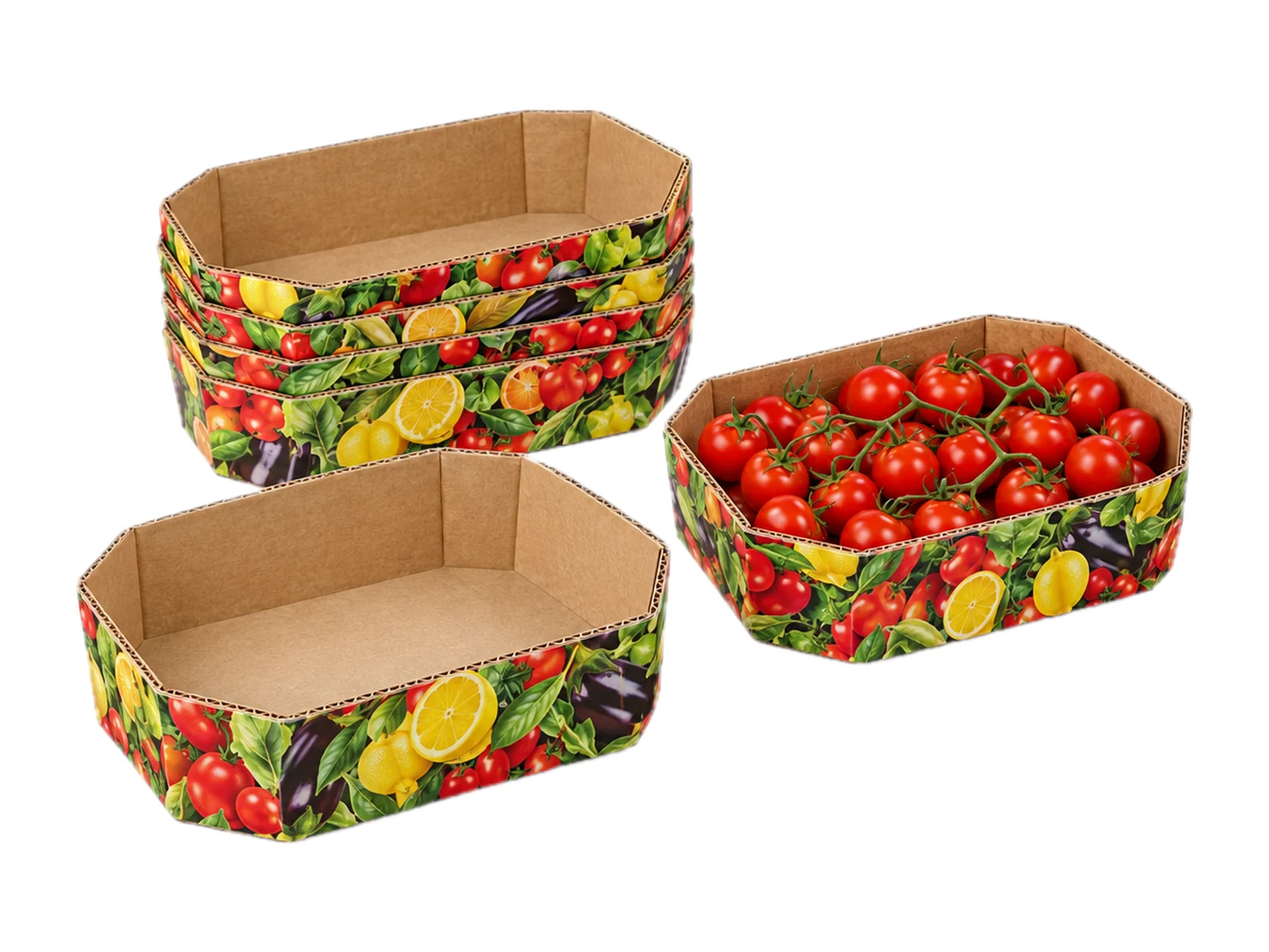
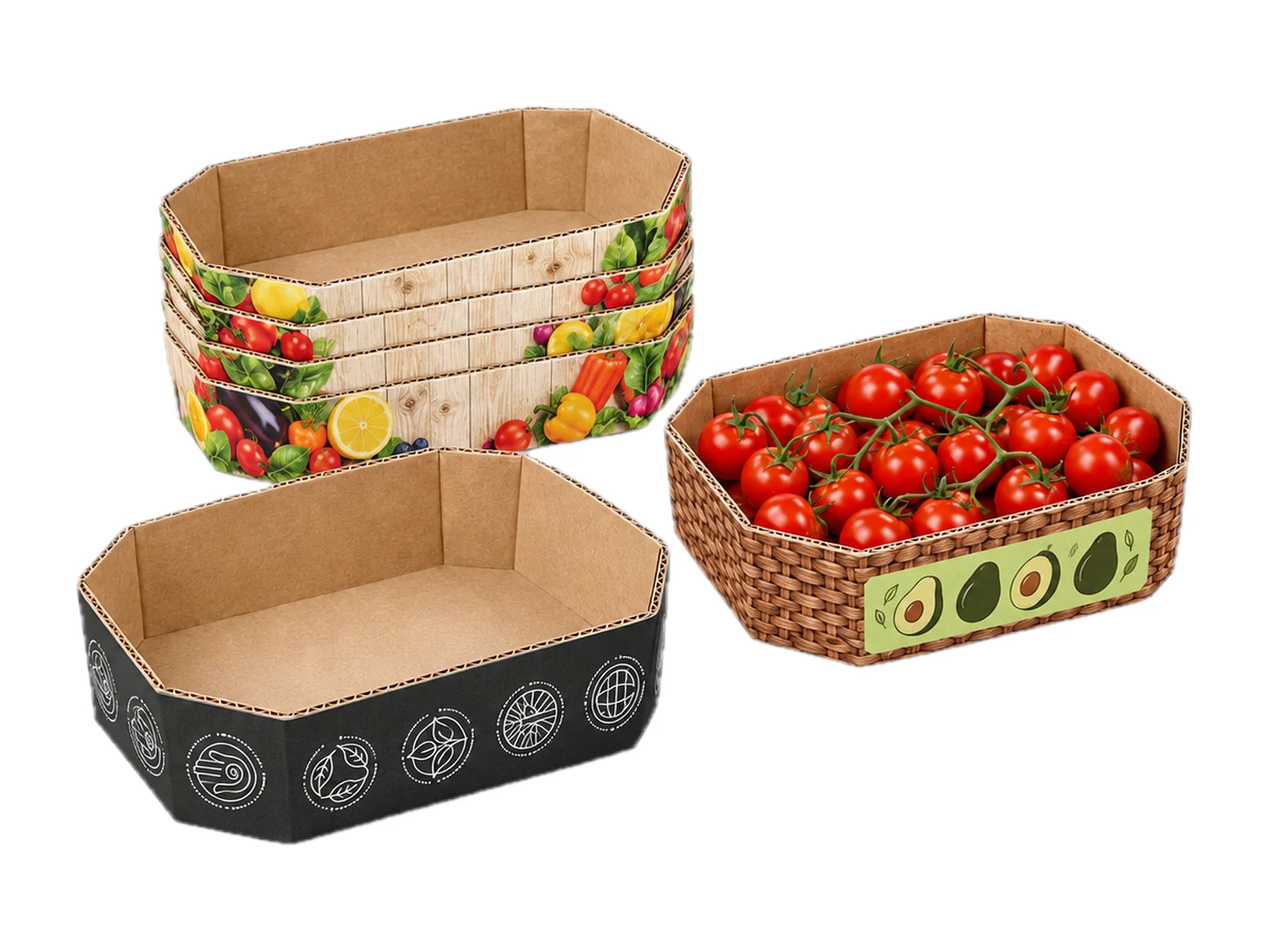
Chili Pack: три дизайна лотков на фото

diff --git a/chilipack/index.html b/chilipack/index.html
@@ -1,4 +1,4 @@
-<!DOCTYPE html><html lang="ru"><head><meta charset="utf-8"><meta name="viewport" content="width=device-width, initial-scale=1"><title>Лотки Chili Pack® для овощей, фруктов и ягод из микрогофрокартона | Финнвакум</title><meta name="description" content="Картонные лотки Chili Pack® для овощей, фруктов, ягод и зелени: разные размеры, печать под ваш бренд, перерабатываемый картон. Работаем по всей России и с ближним зарубежьем."><meta name="robots" content="noindex, nofollow"><meta property="og:type" content="website"><meta property="og:locale" content="ru_RU"><meta property="og:title" content="Лотки Chili Pack® для овощей, фруктов и ягод из микрогофрокартона | Финнвакум"><meta property="og:description" content="Картонные лотки Chili Pack® для овощей, фруктов, ягод и зелени: разные размеры, печать под ваш бренд, перерабатываемый картон. Работаем по всей России и с ближним зарубежьем."><meta property="og:url" content="https://finnvacum.ru/chilipack/"><meta property="og:image" content="https://finnvacum.ru/media/video/produce.jpg"><meta name="theme-color" content="#0a1b3d"><link rel="icon" href="/favicon.svg" type="image/svg+xml"><link rel="alternate icon" href="/favicon.ico" sizes="32x32"><link rel="apple-touch-icon" href="/apple-touch-icon.png"><script type="application/ld+json">{"@context":"https://schema.org","@type":"Organization","name":"ООО «Финнвакум»","url":"https://finnvacum.ru/","logo":"https://finnvacum.ru/media/brand/finnvacum-navy.svg","foundingDate":"1997","email":"info@finnvacum.ru","telephone":"+7 (495) 673-68-69","address":{"@type":"PostalAddress","streetAddress":"ул. 1-я Фрезерная, д. 2/1, стр. 1","postalCode":"109202","addressLocality":"Москва","addressCountry":"RU"}}</script><script>document.documentElement.classList.add('js');</script><script type="application/ld+json">[{"@context":"https://schema.org","@type":"BreadcrumbList","itemListElement":[{"@type":"ListItem","position":1,"name":"Главная","item":"https://finnvacum.ru/"},{"@type":"ListItem","position":2,"name":"Продукция","item":"https://finnvacum.ru/produkciya/"},{"@type":"ListItem","position":3,"name":"Лотки Chili Pack®","item":"https://finnvacum.ru/chilipack/"}]},{"@context":"https://schema.org","@type":"FAQPage","mainEntity":[{"@type":"Question","name":"Можно ли сделать лоток с нашим дизайном?","acceptedAnswer":{"@type":"Answer","text":"Да, печатаем по вашему макету и поможем с подготовкой дизайна."}},{"@type":"Question","name":"Есть ли нестандартные размеры?","acceptedAnswer":{"@type":"Answer","text":"Да, изготовим лотки под ваш продукт и фасовку."}},{"@type":"Question","name":"Чем закрыть лоток?","acceptedAnswer":{"@type":"Answer","text":"Подойдёт плёнка БОПП с перфорацией или стрейч-плёнка ПВХ — продукт «дышит» и дольше остаётся свежим."}}]}]</script><link rel="stylesheet" href="/_astro/blocks.BnBQyDFT.css"><link rel="stylesheet" href="/_astro/Rings.BG2FAgOI.css"><link rel="stylesheet" href="/_astro/LeadForm.gtYtKrME.css"><link rel="stylesheet" href="/_astro/PrintBand.DxBBeWrs.css"></head><body><header class="hdr" data-header data-astro-cid-nen7h5rs><div class="wrap hdr__in" data-astro-cid-nen7h5rs><a href="/" class="hdr__logo" aria-label="Финнвакум — на главную" data-astro-cid-nen7h5rs><img src="/media/brand/finnvacum-white.svg" alt="Finnvacum" width="118" height="52" data-astro-cid-nen7h5rs></a><nav class="hdr__nav" aria-label="Основное меню" data-astro-cid-nen7h5rs><a href="/" data-astro-cid-nen7h5rs>Главная</a><a href="/produkciya/" data-astro-cid-nen7h5rs>Продукция</a><a href="/#tehnologii" data-astro-cid-nen7h5rs>Технологии</a><a href="/poligraficheskie-uslugi/" data-astro-cid-nen7h5rs>Печать</a><a href="/about/" data-astro-cid-nen7h5rs>О компании</a><a href="/contacts/" data-astro-cid-nen7h5rs>Контакты</a><a class="hdr__partner" href="/chisteh/" title="ЧИСТЕХ — технология партнёра" aria-label="ЧИСТЕХ — технология партнёра" data-astro-cid-nen7h5rs><img src="/media/brand/chisteh_horiz_white.svg" alt="ЧИСТЕХ" width="74" height="16" data-astro-cid-nen7h5rs></a></nav><div class="hdr__right" data-astro-cid-nen7h5rs><a class="hdr__phone" href="tel:+74956736869" data-astro-cid-nen7h5rs>+7 (495) 673-68-69</a><a class="btn hdr__cta" href="#zayavka" data-astro-cid-nen7h5rs>Получить КП</a><button class="hdr__burger" type="button" aria-expanded="false" aria-controls="mnav" data-burger data-astro-cid-nen7h5rs><span data-astro-cid-nen7h5rs></span><span data-astro-cid-nen7h5rs></span><span class="sr-only" data-astro-cid-nen7h5rs>Меню</span></button></div></div><div class="mnav" id="mnav" hidden data-astro-cid-nen7h5rs><nav class="wrap" aria-label="Мобильное меню" data-astro-cid-nen7h5rs><a href="/" data-astro-cid-nen7h5rs>Главная</a><a href="/produkciya/" data-astro-cid-nen7h5rs>Продукция</a><a href="/#tehnologii" data-astro-cid-nen7h5rs>Технологии</a><a href="/poligraficheskie-uslugi/" data-astro-cid-nen7h5rs>Печать</a><a href="/about/" data-astro-cid-nen7h5rs>О компании</a><a href="/contacts/" data-astro-cid-nen7h5rs>Контакты</a><a class="mnav__partner" href="/chisteh/" data-astro-cid-nen7h5rs><img src="/media/brand/chisteh_horiz_white.svg" alt="ЧИСТЕХ" width="92" height="20" data-astro-cid-nen7h5rs></a><a class="mnav__phone" href="tel:+74956736869" data-astro-cid-nen7h5rs>+7 (495) 673-68-69</a><a class="btn" href="#zayavka" data-astro-cid-nen7h5rs>Получить КП</a></nav></div></header><main><section class="phero dark "><svg class="phero__rings" viewBox="0 0 300 300" aria-hidden="true" focusable="false"><circle cx="150" cy="150" r="140" fill="none" stroke="#123067" stroke-width="12"></circle><circle cx="150" cy="150" r="140" fill="none" stroke="#1FAEE0" stroke-width="12" stroke-dasharray="220 660" stroke-linecap="round" transform="rotate(10 150 150)"></circle><circle cx="150" cy="150" r="108" fill="none" stroke="#0E2354" stroke-width="8"></circle><circle cx="150" cy="150" r="108" fill="none" stroke="#5CC6E8" stroke-width="8" stroke-dasharray="140 540" stroke-linecap="round" transform="rotate(140 150 150)"></circle></svg><div class="wrap phero__grid "><div class="phero__copy"><nav class="crumbs" aria-label="Хлебные крошки"><a href="/">Главная</a><span aria-hidden="true">/</span><a href="/produkciya/">Продукция</a><span aria-hidden="true">/</span><span aria-current="page">Лотки Chili Pack®</span></nav><span class="eyebrow" data-reveal>Картонные лотки</span><h1 class="h-1" data-reveal style="--d:.06s">Лотки Chili Pack® для овощей, фруктов и&nbsp;ягод</h1><p class="lead" data-reveal style="--d:.12s">Лотки из микрогофрокартона для свежих продуктов. Держат форму, хорошо смотрятся на полке и печатаются под ваш бренд.</p><div class="phero__ctas" data-reveal style="--d:.18s"><a class="btn" href="#zayavka">Получить КП и образец <svg viewBox="0 0 24 24" fill="none" stroke="currentColor" stroke-width="2.2" stroke-linecap="round" stroke-linejoin="round" aria-hidden="true"><path d="M5 12h14M13 6l6 6-6 6"></path></svg></a><a class="btn btn--ghost" href="#modeli">Размеры</a></div><ul class="phero__facts" data-reveal style="--d:.24s"><li><b>Картон</b><span>перерабатываемый</span></li><li><b>Печать</b><span>под ваш бренд</span></li></ul></div><div class="phero__media phero__media--cover" data-reveal style="--d:.15s"><video class="lazy-video " data-lazy-video poster="/media/video/produce.jpg" muted loop playsinline preload="none" disablepictureinpicture aria-label="Картонные лотки Chili Pack с печатью"><source data-src="/media/video/produce.webm" type="video/webm"><source data-src="/media/video/produce.mp4" type="video/mp4"></video></div></div></section><section class="section b" aria-labelledby="b0-title"><div class="wrap"><div class="sec-head"><span class="eyebrow" data-reveal>Модели</span><h2 class="h-2" id="b0-title" data-reveal style="--d:.06s">Ходовые размеры</h2><p class="lead" data-reveal style="--d:.1s">Все лотки подходят для ягод, черри, грибов, фруктов, овощей, зелени и салатов — выбирайте по объёму фасовки.</p></div><div class="b-table" data-reveal><table><thead><tr><th scope="col">Модель</th><th scope="col">Размер, мм</th></tr></thead><tbody><tr><th scope="row">Плетёнка</th><td>145 × 68 × 35</td></tr><tr><th scope="row">МГК F</th><td>185 × 70 × 33</td></tr><tr><th scope="row">МГК фрукты</th><td>220 × 130 × 45</td></tr><tr><th scope="row">МГК фрукты-овощи</th><td>270 × 110 × 45</td></tr><tr><th scope="row">МГК CP зелёный</th><td>140 × 135 × 40</td></tr></tbody></table></div><p class="b-note" data-reveal>МГК — микрогофрокартон. Изготовим лотки других размеров и с печатью по вашему макету.</p></div></section><section class="section b mist" aria-labelledby="b1-title"><div class="wrap b-split  "><div class="b-split__copy"><span class="eyebrow" data-reveal>Эко</span><h2 class="h-2" id="b1-title" data-reveal style="--d:.06s">Картон вместо пластика</h2><p class="lead" data-reveal style="--d:.1s">Картонный лоток — перерабатываемая упаковка, которую покупатель воспринимает как экологичную. Подходит для сетевой розницы и фермерских продуктов.</p><ul class="b-checks" data-reveal style="--d:.14s"><li>Микрогофрокартон держит форму</li><li>Печать по всей поверхности</li><li>Можно комбинировать с плёнкой БОПП с перфорацией</li></ul></div><figure class="b-media " data-reveal style="--d:.1s"><img src="/media/img/chili-eco.webp" alt="Картонные лотки Chili Pack из микрогофрокартона с печатью: пустые, стопкой и с томатами черри" loading="lazy" decoding="async"></figure></div></section><section class="section mist" aria-labelledby="faq-title"><div class="wrap faq"><div class="sec-head" style="margin:0"><span class="eyebrow" data-reveal>Вопросы</span><h2 class="h-2" id="faq-title" data-reveal style="--d:.06s">Частые вопросы о лотках Chili Pack®</h2><p class="faq__hint" data-reveal style="--d:.1s">Не нашли ответ? Позвоните или напишите — технолог ответит в течение рабочего дня.</p></div><div class="faq__list"><details data-reveal><summary>Можно ли сделать лоток с нашим дизайном?</summary><p>Да, печатаем по вашему макету и поможем с подготовкой дизайна.</p></details><details data-reveal><summary>Есть ли нестандартные размеры?</summary><p>Да, изготовим лотки под ваш продукт и фасовку.</p></details><details data-reveal><summary>Чем закрыть лоток?</summary><p>Подойдёт плёнка БОПП с перфорацией или стрейч-плёнка ПВХ — продукт «дышит» и дольше остаётся свежим.</p></details></div></div></section><section class="section" aria-labelledby="rel-title"><div class="wrap"><div class="sec-head"><span class="eyebrow">Вместе с этим</span><h2 class="h-2" id="rel-title">Что ещё пригодится</h2></div><div class="rel"><a class="rel__card" href="/plenki-s-perforaciey-bopp/"><div><h3 class="h-3">Плёнка БОПП с перфорацией</h3><span class="link-arrow">Подробнее <svg viewBox="0 0 24 24" fill="none" stroke="currentColor" stroke-width="2.2" stroke-linecap="round" stroke-linejoin="round" aria-hidden="true"><path d="M5 12h14M13 6l6 6-6 6"></path></svg></span></div></a><a class="rel__card" href="/plenka-pvh-strejch/"><div><h3 class="h-3">Пищевая стрейч-плёнка ПВХ</h3><span class="link-arrow">Подробнее <svg viewBox="0 0 24 24" fill="none" stroke="currentColor" stroke-width="2.2" stroke-linecap="round" stroke-linejoin="round" aria-hidden="true"><path d="M5 12h14M13 6l6 6-6 6"></path></svg></span></div></a><a class="rel__card" href="/ekoupakovka/"><div><h3 class="h-3">Эко-упаковка</h3><span class="link-arrow">Подробнее <svg viewBox="0 0 24 24" fill="none" stroke="currentColor" stroke-width="2.2" stroke-linecap="round" stroke-linejoin="round" aria-hidden="true"><path d="M5 12h14M13 6l6 6-6 6"></path></svg></span></div></a><a class="rel__card" href="/poligraficheskie-uslugi/"><img src="/media/img/print-coffee.webp" alt="Кофе и снеки в упаковке с печатью" loading="lazy"><div><h3 class="h-3">Печать и ламинация</h3><p>Многослойные барьерные структуры и печать по плёнке на своём оборудовании.</p><span class="link-arrow">Подробнее <svg viewBox="0 0 24 24" fill="none" stroke="currentColor" stroke-width="2.2" stroke-linecap="round" stroke-linejoin="round" aria-hidden="true"><path d="M5 12h14M13 6l6 6-6 6"></path></svg></span></div></a></div></div></section><section class="section dark lead-sec" id="zayavka" aria-labelledby="zayavka-title" data-astro-cid-sevzbneq><svg class="lead-sec__rings" viewBox="0 0 300 300" aria-hidden="true" focusable="false"><circle cx="150" cy="150" r="140" fill="none" stroke="#123067" stroke-width="12"></circle><circle cx="150" cy="150" r="140" fill="none" stroke="#1FAEE0" stroke-width="12" stroke-dasharray="220 660" stroke-linecap="round" transform="rotate(20 150 150)"></circle><circle cx="150" cy="150" r="108" fill="none" stroke="#0E2354" stroke-width="8"></circle><circle cx="150" cy="150" r="108" fill="none" stroke="#5CC6E8" stroke-width="8" stroke-dasharray="140 540" stroke-linecap="round" transform="rotate(150 150 150)"></circle></svg><div class="wrap lead-sec__grid" data-astro-cid-sevzbneq><div class="lead-sec__copy" data-reveal data-astro-cid-sevzbneq><span class="eyebrow" data-astro-cid-sevzbneq>Заявка</span><h2 class="h-1" id="zayavka-title" data-astro-cid-sevzbneq>Подберём лоток под ваш продукт</h2><p class="lead" data-astro-cid-sevzbneq>Расскажите, что фасуете и в каком объёме, — подберём размер и пришлём образцы.</p><ul class="lead-sec__contacts" data-astro-cid-sevzbneq><li data-astro-cid-sevzbneq><span data-astro-cid-sevzbneq>Телефон</span><a href="tel:+74956736869" data-astro-cid-sevzbneq>+7 (495) 673-68-69</a><a href="tel:+79269946294" data-astro-cid-sevzbneq>+7 (926) 994-62-94</a></li><li data-astro-cid-sevzbneq><span data-astro-cid-sevzbneq>Почта</span><a href="mailto:info@finnvacum.ru" data-astro-cid-sevzbneq>info@finnvacum.ru</a></li><li data-astro-cid-sevzbneq><span data-astro-cid-sevzbneq>Мессенджеры · +7 (926) 994-62-94</span><div class="lead-sec__msg" data-astro-cid-sevzbneq><a href="tel:+79269946294" title="Max — по номеру телефона" data-astro-cid-sevzbneq>Max</a><a href="https://t.me/+79269946294" target="_blank" rel="noopener" data-astro-cid-sevzbneq>Telegram</a><a href="https://wa.me/79269946294" target="_blank" rel="noopener" data-astro-cid-sevzbneq>WhatsApp</a></div></li></ul></div><form class="lead-form" action="/api/lead" method="post" data-reveal style="--d:.1s" data-lead-form data-astro-cid-sevzbneq><div class="lead-form__row" data-astro-cid-sevzbneq><label data-astro-cid-sevzbneq><span data-astro-cid-sevzbneq>Имя</span><input name="name" autocomplete="name" placeholder="Как к вам обращаться" required data-astro-cid-sevzbneq></label><label data-astro-cid-sevzbneq><span data-astro-cid-sevzbneq>Телефон или почта</span><input name="contact" autocomplete="tel" placeholder="+7 ___ ___-__-__" required data-astro-cid-sevzbneq></label></div><label data-astro-cid-sevzbneq><span data-astro-cid-sevzbneq>Компания</span><input name="company" autocomplete="organization" placeholder="Название компании" data-astro-cid-sevzbneq></label><fieldset data-astro-cid-sevzbneq><legend data-astro-cid-sevzbneq>Что упаковываете</legend><div class="lead-form__pills" data-astro-cid-sevzbneq><label class="pill" data-astro-cid-sevzbneq><input type="checkbox" name="product" value="Рыба и морепродукты" data-astro-cid-sevzbneq><span data-astro-cid-sevzbneq>Рыба и морепродукты</span></label><label class="pill" data-astro-cid-sevzbneq><input type="checkbox" name="product" value="Мясо, птица и деликатесы" data-astro-cid-sevzbneq><span data-astro-cid-sevzbneq>Мясо, птица и деликатесы</span></label><label class="pill" data-astro-cid-sevzbneq><input type="checkbox" name="product" value="Кондитерские изделия" data-astro-cid-sevzbneq><span data-astro-cid-sevzbneq>Кондитерские изделия</span></label><label class="pill" data-astro-cid-sevzbneq><input type="checkbox" name="product" value="Овощи, фрукты и салаты" data-astro-cid-sevzbneq><span data-astro-cid-sevzbneq>Овощи и фрукты</span></label><label class="pill" data-astro-cid-sevzbneq><input type="checkbox" name="product" value="Другое" data-astro-cid-sevzbneq><span data-astro-cid-sevzbneq>Другое</span></label></div></fieldset><fieldset data-astro-cid-sevzbneq><legend data-astro-cid-sevzbneq>Как удобнее связаться</legend><div class="lead-form__pills" data-astro-cid-sevzbneq><label class="pill" data-astro-cid-sevzbneq><input type="radio" name="channel" value="Звонок" checked data-astro-cid-sevzbneq><span data-astro-cid-sevzbneq>Звонок</span></label><label class="pill" data-astro-cid-sevzbneq><input type="radio" name="channel" value="Max" data-astro-cid-sevzbneq><span data-astro-cid-sevzbneq>Max</span></label><label class="pill" data-astro-cid-sevzbneq><input type="radio" name="channel" value="Telegram" data-astro-cid-sevzbneq><span data-astro-cid-sevzbneq>Telegram</span></label><label class="pill" data-astro-cid-sevzbneq><input type="radio" name="channel" value="WhatsApp" data-astro-cid-sevzbneq><span data-astro-cid-sevzbneq>WhatsApp</span></label><label class="pill" data-astro-cid-sevzbneq><input type="radio" name="channel" value="Почта" data-astro-cid-sevzbneq><span data-astro-cid-sevzbneq>Почта</span></label></div></fieldset><label data-astro-cid-sevzbneq><span data-astro-cid-sevzbneq>Задача</span><textarea name="message" rows="3" placeholder="Продукт, объём, оборудование, нужна ли печать" data-astro-cid-sevzbneq></textarea></label><label class="lead-form__consent" data-astro-cid-sevzbneq><input type="checkbox" name="consent" required data-astro-cid-sevzbneq><span data-astro-cid-sevzbneq>Даю <a href="/soglasie-na-obrabotku-personalnyh-dannyh/" target="_blank" data-astro-cid-sevzbneq>согласие на обработку персональных данных</a> и подтверждаю, что ознакомлен с <a href="/politika-konfidencialnosti/" target="_blank" data-astro-cid-sevzbneq>политикой обработки персональных данных</a></span></label><button class="btn lead-form__submit" type="submit" data-astro-cid-sevzbneq>Получить КП и образец <svg viewBox="0 0 24 24" fill="none" stroke="currentColor" stroke-width="2.2" stroke-linecap="round" stroke-linejoin="round" aria-hidden="true"><path d="M5 12h14M13 6l6 6-6 6"></path></svg></button><p class="lead-form__status" role="status" aria-live="polite" data-astro-cid-sevzbneq></p></form></div></section></main><footer class="ftr" data-astro-cid-jo6i4kqk><div class="wrap" data-astro-cid-jo6i4kqk><div class="ftr__top" data-astro-cid-jo6i4kqk><div class="ftr__brand" data-astro-cid-jo6i4kqk><img src="/media/brand/finnvacum-white.svg" alt="Finnvacum" width="118" height="52" loading="lazy" data-astro-cid-jo6i4kqk><p data-astro-cid-jo6i4kqk>Материалы, технологии и готовые решения в области упаковки пищевых продуктов. Производство в Москве с 1997 года.</p><div class="ftr__certs" data-astro-cid-jo6i4kqk><button type="button" data-cert="iso-22000" aria-label="Сертификат ISO 22000" data-astro-cid-jo6i4kqk><img src="/media/brand/iso_22000.png" alt="ISO 22000" loading="lazy" data-astro-cid-jo6i4kqk></button><button type="button" data-cert="halal" aria-label="Сертификат Халяль" data-astro-cid-jo6i4kqk><img src="/media/brand/halal_badge.png" alt="Халяль" loading="lazy" data-astro-cid-jo6i4kqk></button></div></div><nav class="ftr__col" aria-label="Компания" data-astro-cid-jo6i4kqk><h3 data-astro-cid-jo6i4kqk>Компания</h3><a href="/about/" data-astro-cid-jo6i4kqk>О компании</a><a href="/proizvodstvo/" data-astro-cid-jo6i4kqk>Производство</a><a href="/dokumenty/" data-astro-cid-jo6i4kqk>Документы и сертификаты</a><a href="/contacts/" data-astro-cid-jo6i4kqk>Контакты и реквизиты</a><h3 class="ftr__h2" data-astro-cid-jo6i4kqk>Партнёры</h3><a class="ftr__partner" href="/chisteh/" data-astro-cid-jo6i4kqk><img src="/media/brand/chisteh_horiz_white.svg" alt="ЧИСТЕХ" width="74" height="16" loading="lazy" data-astro-cid-jo6i4kqk><span data-astro-cid-jo6i4kqk>активный антибактериальный барьер</span></a></nav><nav class="ftr__col" aria-label="Продукция" data-astro-cid-jo6i4kqk><h3 data-astro-cid-jo6i4kqk>Продукция</h3><a href="/pakety-vakuumnye/" data-astro-cid-jo6i4kqk>Вакуумные пакеты</a><a href="/skinfresh/" data-astro-cid-jo6i4kqk>SKINFRESH™</a><a href="/plenki-pod-zapaj/" data-astro-cid-jo6i4kqk>Плёнки под запай</a><a href="/poligraficheskie-uslugi/" data-astro-cid-jo6i4kqk>Печать и ламинация</a><a href="/vlagovpityvayuschaya-podlozhka/" data-astro-cid-jo6i4kqk>Влаговпитывающие подложки</a><a href="/podlozhka-tm-zolotoj-list/" data-astro-cid-jo6i4kqk>Подложки «Золотой лист»™</a><a href="/konditerskaya-upakovka/" data-astro-cid-jo6i4kqk>Кондитерские подложки</a><a href="/chilipack/" data-astro-cid-jo6i4kqk>Лотки Chili Pack®</a><a class="ftr__all" href="/produkciya/" data-astro-cid-jo6i4kqk>Вся продукция →</a></nav><div class="ftr__col" data-astro-cid-jo6i4kqk><h3 data-astro-cid-jo6i4kqk>Контакты</h3><a class="ftr__big" href="tel:+74956736869" data-astro-cid-jo6i4kqk>+7 (495) 673-68-69</a><a class="ftr__big" href="tel:+79269946294" data-astro-cid-jo6i4kqk>+7 (926) 994-62-94</a><a href="mailto:info@finnvacum.ru" data-astro-cid-jo6i4kqk>info@finnvacum.ru</a><address data-astro-cid-jo6i4kqk>109202, г. Москва, ул. 1-я Фрезерная, д. 2/1, стр. 1</address><span class="ftr__muted" data-astro-cid-jo6i4kqk>Пн–Пт, 9:00–18:00</span></div></div><div class="ftr__bottom" data-astro-cid-jo6i4kqk><span data-astro-cid-jo6i4kqk>© 1997–2026 ООО «Финнвакум»</span><nav aria-label="Служебные ссылки" data-astro-cid-jo6i4kqk><a href="/politika-konfidencialnosti/" data-astro-cid-jo6i4kqk>Политика обработки персональных данных</a><a href="/soglasie-na-obrabotku-personalnyh-dannyh/" data-astro-cid-jo6i4kqk>Согласие на обработку данных</a></nav></div></div></footer><dialog class="cv" id="cert-viewer" aria-labelledby="cv-title"><div class="cv__panel"><header class="cv__head"><div><h2 class="cv__title" id="cv-title"></h2><p class="cv__sub"></p></div><button class="cv__close" type="button" data-cv-close aria-label="Закрыть"><svg viewBox="0 0 24 24" aria-hidden="true"><path d="M6 6l12 12M18 6L6 18"></path></svg></button></header><div class="cv__stage"><button class="cv__nav cv__nav--prev" type="button" data-cv-prev aria-label="Предыдущая страница"><svg viewBox="0 0 24 24" aria-hidden="true"><path d="M15 5l-7 7 7 7"></path></svg></button><img class="cv__img" alt=""><button class="cv__nav cv__nav--next" type="button" data-cv-next aria-label="Следующая страница"><svg viewBox="0 0 24 24" aria-hidden="true"><path d="M9 5l7 7-7 7"></path></svg></button></div><footer class="cv__foot"><span class="cv__valid"></span><span class="cv__page"></span><a class="cv__pdf" target="_blank" rel="noopener">Открыть PDF</a></footer></div></dialog><script>(function(){const certs = [{"id":"iso-22000","title":"ISO 22000:2018","sub":"Система менеджмента безопасности пищевой продукции, включая принципы ХАССП · ГОСТ Р ИСО 22000-2019","valid":"Действует с 14.08.2026 по 13.08.2029","logo":"iso_22000","pages":2,"w":1406,"h":1988},{"id":"halal","title":"Халяль","sub":"Система добровольной сертификации продукции, услуг и туризма «Халяль»","valid":"Действует с 25.03.2026 по 24.03.2029","logo":"halal_badge","pages":2,"w":1406,"h":1988}];
+<!DOCTYPE html><html lang="ru"><head><meta charset="utf-8"><meta name="viewport" content="width=device-width, initial-scale=1"><title>Лотки Chili Pack® для овощей, фруктов и ягод из микрогофрокартона | Финнвакум</title><meta name="description" content="Картонные лотки Chili Pack® для овощей, фруктов, ягод и зелени: разные размеры, печать под ваш бренд, перерабатываемый картон. Работаем по всей России и с ближним зарубежьем."><meta name="robots" content="noindex, nofollow"><meta property="og:type" content="website"><meta property="og:locale" content="ru_RU"><meta property="og:title" content="Лотки Chili Pack® для овощей, фруктов и ягод из микрогофрокартона | Финнвакум"><meta property="og:description" content="Картонные лотки Chili Pack® для овощей, фруктов, ягод и зелени: разные размеры, печать под ваш бренд, перерабатываемый картон. Работаем по всей России и с ближним зарубежьем."><meta property="og:url" content="https://finnvacum.ru/chilipack/"><meta property="og:image" content="https://finnvacum.ru/media/video/produce.jpg"><meta name="theme-color" content="#0a1b3d"><link rel="icon" href="/favicon.svg" type="image/svg+xml"><link rel="alternate icon" href="/favicon.ico" sizes="32x32"><link rel="apple-touch-icon" href="/apple-touch-icon.png"><script type="application/ld+json">{"@context":"https://schema.org","@type":"Organization","name":"ООО «Финнвакум»","url":"https://finnvacum.ru/","logo":"https://finnvacum.ru/media/brand/finnvacum-navy.svg","foundingDate":"1997","email":"info@finnvacum.ru","telephone":"+7 (495) 673-68-69","address":{"@type":"PostalAddress","streetAddress":"ул. 1-я Фрезерная, д. 2/1, стр. 1","postalCode":"109202","addressLocality":"Москва","addressCountry":"RU"}}</script><script>document.documentElement.classList.add('js');</script><script type="application/ld+json">[{"@context":"https://schema.org","@type":"BreadcrumbList","itemListElement":[{"@type":"ListItem","position":1,"name":"Главная","item":"https://finnvacum.ru/"},{"@type":"ListItem","position":2,"name":"Продукция","item":"https://finnvacum.ru/produkciya/"},{"@type":"ListItem","position":3,"name":"Лотки Chili Pack®","item":"https://finnvacum.ru/chilipack/"}]},{"@context":"https://schema.org","@type":"FAQPage","mainEntity":[{"@type":"Question","name":"Можно ли сделать лоток с нашим дизайном?","acceptedAnswer":{"@type":"Answer","text":"Да, печатаем по вашему макету и поможем с подготовкой дизайна."}},{"@type":"Question","name":"Есть ли нестандартные размеры?","acceptedAnswer":{"@type":"Answer","text":"Да, изготовим лотки под ваш продукт и фасовку."}},{"@type":"Question","name":"Чем закрыть лоток?","acceptedAnswer":{"@type":"Answer","text":"Подойдёт плёнка БОПП с перфорацией или стрейч-плёнка ПВХ — продукт «дышит» и дольше остаётся свежим."}}]}]</script><link rel="stylesheet" href="/_astro/blocks.BnBQyDFT.css"><link rel="stylesheet" href="/_astro/Rings.BG2FAgOI.css"><link rel="stylesheet" href="/_astro/LeadForm.gtYtKrME.css"><link rel="stylesheet" href="/_astro/PrintBand.DxBBeWrs.css"></head><body><header class="hdr" data-header data-astro-cid-nen7h5rs><div class="wrap hdr__in" data-astro-cid-nen7h5rs><a href="/" class="hdr__logo" aria-label="Финнвакум — на главную" data-astro-cid-nen7h5rs><img src="/media/brand/finnvacum-white.svg" alt="Finnvacum" width="118" height="52" data-astro-cid-nen7h5rs></a><nav class="hdr__nav" aria-label="Основное меню" data-astro-cid-nen7h5rs><a href="/" data-astro-cid-nen7h5rs>Главная</a><a href="/produkciya/" data-astro-cid-nen7h5rs>Продукция</a><a href="/#tehnologii" data-astro-cid-nen7h5rs>Технологии</a><a href="/poligraficheskie-uslugi/" data-astro-cid-nen7h5rs>Печать</a><a href="/about/" data-astro-cid-nen7h5rs>О компании</a><a href="/contacts/" data-astro-cid-nen7h5rs>Контакты</a><a class="hdr__partner" href="/chisteh/" title="ЧИСТЕХ — технология партнёра" aria-label="ЧИСТЕХ — технология партнёра" data-astro-cid-nen7h5rs><img src="/media/brand/chisteh_horiz_white.svg" alt="ЧИСТЕХ" width="74" height="16" data-astro-cid-nen7h5rs></a></nav><div class="hdr__right" data-astro-cid-nen7h5rs><a class="hdr__phone" href="tel:+74956736869" data-astro-cid-nen7h5rs>+7 (495) 673-68-69</a><a class="btn hdr__cta" href="#zayavka" data-astro-cid-nen7h5rs>Получить КП</a><button class="hdr__burger" type="button" aria-expanded="false" aria-controls="mnav" data-burger data-astro-cid-nen7h5rs><span data-astro-cid-nen7h5rs></span><span data-astro-cid-nen7h5rs></span><span class="sr-only" data-astro-cid-nen7h5rs>Меню</span></button></div></div><div class="mnav" id="mnav" hidden data-astro-cid-nen7h5rs><nav class="wrap" aria-label="Мобильное меню" data-astro-cid-nen7h5rs><a href="/" data-astro-cid-nen7h5rs>Главная</a><a href="/produkciya/" data-astro-cid-nen7h5rs>Продукция</a><a href="/#tehnologii" data-astro-cid-nen7h5rs>Технологии</a><a href="/poligraficheskie-uslugi/" data-astro-cid-nen7h5rs>Печать</a><a href="/about/" data-astro-cid-nen7h5rs>О компании</a><a href="/contacts/" data-astro-cid-nen7h5rs>Контакты</a><a class="mnav__partner" href="/chisteh/" data-astro-cid-nen7h5rs><img src="/media/brand/chisteh_horiz_white.svg" alt="ЧИСТЕХ" width="92" height="20" data-astro-cid-nen7h5rs></a><a class="mnav__phone" href="tel:+74956736869" data-astro-cid-nen7h5rs>+7 (495) 673-68-69</a><a class="btn" href="#zayavka" data-astro-cid-nen7h5rs>Получить КП</a></nav></div></header><main><section class="phero dark "><svg class="phero__rings" viewBox="0 0 300 300" aria-hidden="true" focusable="false"><circle cx="150" cy="150" r="140" fill="none" stroke="#123067" stroke-width="12"></circle><circle cx="150" cy="150" r="140" fill="none" stroke="#1FAEE0" stroke-width="12" stroke-dasharray="220 660" stroke-linecap="round" transform="rotate(10 150 150)"></circle><circle cx="150" cy="150" r="108" fill="none" stroke="#0E2354" stroke-width="8"></circle><circle cx="150" cy="150" r="108" fill="none" stroke="#5CC6E8" stroke-width="8" stroke-dasharray="140 540" stroke-linecap="round" transform="rotate(140 150 150)"></circle></svg><div class="wrap phero__grid "><div class="phero__copy"><nav class="crumbs" aria-label="Хлебные крошки"><a href="/">Главная</a><span aria-hidden="true">/</span><a href="/produkciya/">Продукция</a><span aria-hidden="true">/</span><span aria-current="page">Лотки Chili Pack®</span></nav><span class="eyebrow" data-reveal>Картонные лотки</span><h1 class="h-1" data-reveal style="--d:.06s">Лотки Chili Pack® для овощей, фруктов и&nbsp;ягод</h1><p class="lead" data-reveal style="--d:.12s">Лотки из микрогофрокартона для свежих продуктов. Держат форму, хорошо смотрятся на полке и печатаются под ваш бренд.</p><div class="phero__ctas" data-reveal style="--d:.18s"><a class="btn" href="#zayavka">Получить КП и образец <svg viewBox="0 0 24 24" fill="none" stroke="currentColor" stroke-width="2.2" stroke-linecap="round" stroke-linejoin="round" aria-hidden="true"><path d="M5 12h14M13 6l6 6-6 6"></path></svg></a><a class="btn btn--ghost" href="#modeli">Размеры</a></div><ul class="phero__facts" data-reveal style="--d:.24s"><li><b>Картон</b><span>перерабатываемый</span></li><li><b>Печать</b><span>под ваш бренд</span></li></ul></div><div class="phero__media phero__media--cover" data-reveal style="--d:.15s"><video class="lazy-video " data-lazy-video poster="/media/video/produce.jpg" muted loop playsinline preload="none" disablepictureinpicture aria-label="Картонные лотки Chili Pack с печатью"><source data-src="/media/video/produce.webm" type="video/webm"><source data-src="/media/video/produce.mp4" type="video/mp4"></video></div></div></section><section class="section b" aria-labelledby="b0-title"><div class="wrap"><div class="sec-head"><span class="eyebrow" data-reveal>Модели</span><h2 class="h-2" id="b0-title" data-reveal style="--d:.06s">Ходовые размеры</h2><p class="lead" data-reveal style="--d:.1s">Все лотки подходят для ягод, черри, грибов, фруктов, овощей, зелени и салатов — выбирайте по объёму фасовки.</p></div><div class="b-table" data-reveal><table><thead><tr><th scope="col">Модель</th><th scope="col">Размер, мм</th></tr></thead><tbody><tr><th scope="row">Плетёнка</th><td>145 × 68 × 35</td></tr><tr><th scope="row">МГК F</th><td>185 × 70 × 33</td></tr><tr><th scope="row">МГК фрукты</th><td>220 × 130 × 45</td></tr><tr><th scope="row">МГК фрукты-овощи</th><td>270 × 110 × 45</td></tr><tr><th scope="row">МГК CP зелёный</th><td>140 × 135 × 40</td></tr></tbody></table></div><p class="b-note" data-reveal>МГК — микрогофрокартон. Изготовим лотки других размеров и с печатью по вашему макету.</p></div></section><section class="section b mist" aria-labelledby="b1-title"><div class="wrap b-split  "><div class="b-split__copy"><span class="eyebrow" data-reveal>Эко</span><h2 class="h-2" id="b1-title" data-reveal style="--d:.06s">Картон вместо пластика</h2><p class="lead" data-reveal style="--d:.1s">Картонный лоток — перерабатываемая упаковка, которую покупатель воспринимает как экологичную. Подходит для сетевой розницы и фермерских продуктов.</p><ul class="b-checks" data-reveal style="--d:.14s"><li>Микрогофрокартон держит форму</li><li>Печать по всей поверхности</li><li>Можно комбинировать с плёнкой БОПП с перфорацией</li></ul></div><figure class="b-media " data-reveal style="--d:.1s"><img src="/media/img/chili-eco.webp" alt="Лотки Chili Pack из микрогофрокартона в трёх дизайнах: дерево с овощами, чёрный с эко-иконками, плетёнка с томатами черри" loading="lazy" decoding="async"></figure></div></section><section class="section mist" aria-labelledby="faq-title"><div class="wrap faq"><div class="sec-head" style="margin:0"><span class="eyebrow" data-reveal>Вопросы</span><h2 class="h-2" id="faq-title" data-reveal style="--d:.06s">Частые вопросы о лотках Chili Pack®</h2><p class="faq__hint" data-reveal style="--d:.1s">Не нашли ответ? Позвоните или напишите — технолог ответит в течение рабочего дня.</p></div><div class="faq__list"><details data-reveal><summary>Можно ли сделать лоток с нашим дизайном?</summary><p>Да, печатаем по вашему макету и поможем с подготовкой дизайна.</p></details><details data-reveal><summary>Есть ли нестандартные размеры?</summary><p>Да, изготовим лотки под ваш продукт и фасовку.</p></details><details data-reveal><summary>Чем закрыть лоток?</summary><p>Подойдёт плёнка БОПП с перфорацией или стрейч-плёнка ПВХ — продукт «дышит» и дольше остаётся свежим.</p></details></div></div></section><section class="section" aria-labelledby="rel-title"><div class="wrap"><div class="sec-head"><span class="eyebrow">Вместе с этим</span><h2 class="h-2" id="rel-title">Что ещё пригодится</h2></div><div class="rel"><a class="rel__card" href="/plenki-s-perforaciey-bopp/"><div><h3 class="h-3">Плёнка БОПП с перфорацией</h3><span class="link-arrow">Подробнее <svg viewBox="0 0 24 24" fill="none" stroke="currentColor" stroke-width="2.2" stroke-linecap="round" stroke-linejoin="round" aria-hidden="true"><path d="M5 12h14M13 6l6 6-6 6"></path></svg></span></div></a><a class="rel__card" href="/plenka-pvh-strejch/"><div><h3 class="h-3">Пищевая стрейч-плёнка ПВХ</h3><span class="link-arrow">Подробнее <svg viewBox="0 0 24 24" fill="none" stroke="currentColor" stroke-width="2.2" stroke-linecap="round" stroke-linejoin="round" aria-hidden="true"><path d="M5 12h14M13 6l6 6-6 6"></path></svg></span></div></a><a class="rel__card" href="/ekoupakovka/"><div><h3 class="h-3">Эко-упаковка</h3><span class="link-arrow">Подробнее <svg viewBox="0 0 24 24" fill="none" stroke="currentColor" stroke-width="2.2" stroke-linecap="round" stroke-linejoin="round" aria-hidden="true"><path d="M5 12h14M13 6l6 6-6 6"></path></svg></span></div></a><a class="rel__card" href="/poligraficheskie-uslugi/"><img src="/media/img/print-coffee.webp" alt="Кофе и снеки в упаковке с печатью" loading="lazy"><div><h3 class="h-3">Печать и ламинация</h3><p>Многослойные барьерные структуры и печать по плёнке на своём оборудовании.</p><span class="link-arrow">Подробнее <svg viewBox="0 0 24 24" fill="none" stroke="currentColor" stroke-width="2.2" stroke-linecap="round" stroke-linejoin="round" aria-hidden="true"><path d="M5 12h14M13 6l6 6-6 6"></path></svg></span></div></a></div></div></section><section class="section dark lead-sec" id="zayavka" aria-labelledby="zayavka-title" data-astro-cid-sevzbneq><svg class="lead-sec__rings" viewBox="0 0 300 300" aria-hidden="true" focusable="false"><circle cx="150" cy="150" r="140" fill="none" stroke="#123067" stroke-width="12"></circle><circle cx="150" cy="150" r="140" fill="none" stroke="#1FAEE0" stroke-width="12" stroke-dasharray="220 660" stroke-linecap="round" transform="rotate(20 150 150)"></circle><circle cx="150" cy="150" r="108" fill="none" stroke="#0E2354" stroke-width="8"></circle><circle cx="150" cy="150" r="108" fill="none" stroke="#5CC6E8" stroke-width="8" stroke-dasharray="140 540" stroke-linecap="round" transform="rotate(150 150 150)"></circle></svg><div class="wrap lead-sec__grid" data-astro-cid-sevzbneq><div class="lead-sec__copy" data-reveal data-astro-cid-sevzbneq><span class="eyebrow" data-astro-cid-sevzbneq>Заявка</span><h2 class="h-1" id="zayavka-title" data-astro-cid-sevzbneq>Подберём лоток под ваш продукт</h2><p class="lead" data-astro-cid-sevzbneq>Расскажите, что фасуете и в каком объёме, — подберём размер и пришлём образцы.</p><ul class="lead-sec__contacts" data-astro-cid-sevzbneq><li data-astro-cid-sevzbneq><span data-astro-cid-sevzbneq>Телефон</span><a href="tel:+74956736869" data-astro-cid-sevzbneq>+7 (495) 673-68-69</a><a href="tel:+79269946294" data-astro-cid-sevzbneq>+7 (926) 994-62-94</a></li><li data-astro-cid-sevzbneq><span data-astro-cid-sevzbneq>Почта</span><a href="mailto:info@finnvacum.ru" data-astro-cid-sevzbneq>info@finnvacum.ru</a></li><li data-astro-cid-sevzbneq><span data-astro-cid-sevzbneq>Мессенджеры · +7 (926) 994-62-94</span><div class="lead-sec__msg" data-astro-cid-sevzbneq><a href="tel:+79269946294" title="Max — по номеру телефона" data-astro-cid-sevzbneq>Max</a><a href="https://t.me/+79269946294" target="_blank" rel="noopener" data-astro-cid-sevzbneq>Telegram</a><a href="https://wa.me/79269946294" target="_blank" rel="noopener" data-astro-cid-sevzbneq>WhatsApp</a></div></li></ul></div><form class="lead-form" action="/api/lead" method="post" data-reveal style="--d:.1s" data-lead-form data-astro-cid-sevzbneq><div class="lead-form__row" data-astro-cid-sevzbneq><label data-astro-cid-sevzbneq><span data-astro-cid-sevzbneq>Имя</span><input name="name" autocomplete="name" placeholder="Как к вам обращаться" required data-astro-cid-sevzbneq></label><label data-astro-cid-sevzbneq><span data-astro-cid-sevzbneq>Телефон или почта</span><input name="contact" autocomplete="tel" placeholder="+7 ___ ___-__-__" required data-astro-cid-sevzbneq></label></div><label data-astro-cid-sevzbneq><span data-astro-cid-sevzbneq>Компания</span><input name="company" autocomplete="organization" placeholder="Название компании" data-astro-cid-sevzbneq></label><fieldset data-astro-cid-sevzbneq><legend data-astro-cid-sevzbneq>Что упаковываете</legend><div class="lead-form__pills" data-astro-cid-sevzbneq><label class="pill" data-astro-cid-sevzbneq><input type="checkbox" name="product" value="Рыба и морепродукты" data-astro-cid-sevzbneq><span data-astro-cid-sevzbneq>Рыба и морепродукты</span></label><label class="pill" data-astro-cid-sevzbneq><input type="checkbox" name="product" value="Мясо, птица и деликатесы" data-astro-cid-sevzbneq><span data-astro-cid-sevzbneq>Мясо, птица и деликатесы</span></label><label class="pill" data-astro-cid-sevzbneq><input type="checkbox" name="product" value="Кондитерские изделия" data-astro-cid-sevzbneq><span data-astro-cid-sevzbneq>Кондитерские изделия</span></label><label class="pill" data-astro-cid-sevzbneq><input type="checkbox" name="product" value="Овощи, фрукты и салаты" data-astro-cid-sevzbneq><span data-astro-cid-sevzbneq>Овощи и фрукты</span></label><label class="pill" data-astro-cid-sevzbneq><input type="checkbox" name="product" value="Другое" data-astro-cid-sevzbneq><span data-astro-cid-sevzbneq>Другое</span></label></div></fieldset><fieldset data-astro-cid-sevzbneq><legend data-astro-cid-sevzbneq>Как удобнее связаться</legend><div class="lead-form__pills" data-astro-cid-sevzbneq><label class="pill" data-astro-cid-sevzbneq><input type="radio" name="channel" value="Звонок" checked data-astro-cid-sevzbneq><span data-astro-cid-sevzbneq>Звонок</span></label><label class="pill" data-astro-cid-sevzbneq><input type="radio" name="channel" value="Max" data-astro-cid-sevzbneq><span data-astro-cid-sevzbneq>Max</span></label><label class="pill" data-astro-cid-sevzbneq><input type="radio" name="channel" value="Telegram" data-astro-cid-sevzbneq><span data-astro-cid-sevzbneq>Telegram</span></label><label class="pill" data-astro-cid-sevzbneq><input type="radio" name="channel" value="WhatsApp" data-astro-cid-sevzbneq><span data-astro-cid-sevzbneq>WhatsApp</span></label><label class="pill" data-astro-cid-sevzbneq><input type="radio" name="channel" value="Почта" data-astro-cid-sevzbneq><span data-astro-cid-sevzbneq>Почта</span></label></div></fieldset><label data-astro-cid-sevzbneq><span data-astro-cid-sevzbneq>Задача</span><textarea name="message" rows="3" placeholder="Продукт, объём, оборудование, нужна ли печать" data-astro-cid-sevzbneq></textarea></label><label class="lead-form__consent" data-astro-cid-sevzbneq><input type="checkbox" name="consent" required data-astro-cid-sevzbneq><span data-astro-cid-sevzbneq>Даю <a href="/soglasie-na-obrabotku-personalnyh-dannyh/" target="_blank" data-astro-cid-sevzbneq>согласие на обработку персональных данных</a> и подтверждаю, что ознакомлен с <a href="/politika-konfidencialnosti/" target="_blank" data-astro-cid-sevzbneq>политикой обработки персональных данных</a></span></label><button class="btn lead-form__submit" type="submit" data-astro-cid-sevzbneq>Получить КП и образец <svg viewBox="0 0 24 24" fill="none" stroke="currentColor" stroke-width="2.2" stroke-linecap="round" stroke-linejoin="round" aria-hidden="true"><path d="M5 12h14M13 6l6 6-6 6"></path></svg></button><p class="lead-form__status" role="status" aria-live="polite" data-astro-cid-sevzbneq></p></form></div></section></main><footer class="ftr" data-astro-cid-jo6i4kqk><div class="wrap" data-astro-cid-jo6i4kqk><div class="ftr__top" data-astro-cid-jo6i4kqk><div class="ftr__brand" data-astro-cid-jo6i4kqk><img src="/media/brand/finnvacum-white.svg" alt="Finnvacum" width="118" height="52" loading="lazy" data-astro-cid-jo6i4kqk><p data-astro-cid-jo6i4kqk>Материалы, технологии и готовые решения в области упаковки пищевых продуктов. Производство в Москве с 1997 года.</p><div class="ftr__certs" data-astro-cid-jo6i4kqk><button type="button" data-cert="iso-22000" aria-label="Сертификат ISO 22000" data-astro-cid-jo6i4kqk><img src="/media/brand/iso_22000.png" alt="ISO 22000" loading="lazy" data-astro-cid-jo6i4kqk></button><button type="button" data-cert="halal" aria-label="Сертификат Халяль" data-astro-cid-jo6i4kqk><img src="/media/brand/halal_badge.png" alt="Халяль" loading="lazy" data-astro-cid-jo6i4kqk></button></div></div><nav class="ftr__col" aria-label="Компания" data-astro-cid-jo6i4kqk><h3 data-astro-cid-jo6i4kqk>Компания</h3><a href="/about/" data-astro-cid-jo6i4kqk>О компании</a><a href="/proizvodstvo/" data-astro-cid-jo6i4kqk>Производство</a><a href="/dokumenty/" data-astro-cid-jo6i4kqk>Документы и сертификаты</a><a href="/contacts/" data-astro-cid-jo6i4kqk>Контакты и реквизиты</a><h3 class="ftr__h2" data-astro-cid-jo6i4kqk>Партнёры</h3><a class="ftr__partner" href="/chisteh/" data-astro-cid-jo6i4kqk><img src="/media/brand/chisteh_horiz_white.svg" alt="ЧИСТЕХ" width="74" height="16" loading="lazy" data-astro-cid-jo6i4kqk><span data-astro-cid-jo6i4kqk>активный антибактериальный барьер</span></a></nav><nav class="ftr__col" aria-label="Продукция" data-astro-cid-jo6i4kqk><h3 data-astro-cid-jo6i4kqk>Продукция</h3><a href="/pakety-vakuumnye/" data-astro-cid-jo6i4kqk>Вакуумные пакеты</a><a href="/skinfresh/" data-astro-cid-jo6i4kqk>SKINFRESH™</a><a href="/plenki-pod-zapaj/" data-astro-cid-jo6i4kqk>Плёнки под запай</a><a href="/poligraficheskie-uslugi/" data-astro-cid-jo6i4kqk>Печать и ламинация</a><a href="/vlagovpityvayuschaya-podlozhka/" data-astro-cid-jo6i4kqk>Влаговпитывающие подложки</a><a href="/podlozhka-tm-zolotoj-list/" data-astro-cid-jo6i4kqk>Подложки «Золотой лист»™</a><a href="/konditerskaya-upakovka/" data-astro-cid-jo6i4kqk>Кондитерские подложки</a><a href="/chilipack/" data-astro-cid-jo6i4kqk>Лотки Chili Pack®</a><a class="ftr__all" href="/produkciya/" data-astro-cid-jo6i4kqk>Вся продукция →</a></nav><div class="ftr__col" data-astro-cid-jo6i4kqk><h3 data-astro-cid-jo6i4kqk>Контакты</h3><a class="ftr__big" href="tel:+74956736869" data-astro-cid-jo6i4kqk>+7 (495) 673-68-69</a><a class="ftr__big" href="tel:+79269946294" data-astro-cid-jo6i4kqk>+7 (926) 994-62-94</a><a href="mailto:info@finnvacum.ru" data-astro-cid-jo6i4kqk>info@finnvacum.ru</a><address data-astro-cid-jo6i4kqk>109202, г. Москва, ул. 1-я Фрезерная, д. 2/1, стр. 1</address><span class="ftr__muted" data-astro-cid-jo6i4kqk>Пн–Пт, 9:00–18:00</span></div></div><div class="ftr__bottom" data-astro-cid-jo6i4kqk><span data-astro-cid-jo6i4kqk>© 1997–2026 ООО «Финнвакум»</span><nav aria-label="Служебные ссылки" data-astro-cid-jo6i4kqk><a href="/politika-konfidencialnosti/" data-astro-cid-jo6i4kqk>Политика обработки персональных данных</a><a href="/soglasie-na-obrabotku-personalnyh-dannyh/" data-astro-cid-jo6i4kqk>Согласие на обработку данных</a></nav></div></div></footer><dialog class="cv" id="cert-viewer" aria-labelledby="cv-title"><div class="cv__panel"><header class="cv__head"><div><h2 class="cv__title" id="cv-title"></h2><p class="cv__sub"></p></div><button class="cv__close" type="button" data-cv-close aria-label="Закрыть"><svg viewBox="0 0 24 24" aria-hidden="true"><path d="M6 6l12 12M18 6L6 18"></path></svg></button></header><div class="cv__stage"><button class="cv__nav cv__nav--prev" type="button" data-cv-prev aria-label="Предыдущая страница"><svg viewBox="0 0 24 24" aria-hidden="true"><path d="M15 5l-7 7 7 7"></path></svg></button><img class="cv__img" alt=""><button class="cv__nav cv__nav--next" type="button" data-cv-next aria-label="Следующая страница"><svg viewBox="0 0 24 24" aria-hidden="true"><path d="M9 5l7 7-7 7"></path></svg></button></div><footer class="cv__foot"><span class="cv__valid"></span><span class="cv__page"></span><a class="cv__pdf" target="_blank" rel="noopener">Открыть PDF</a></footer></div></dialog><script>(function(){const certs = [{"id":"iso-22000","title":"ISO 22000:2018","sub":"Система менеджмента безопасности пищевой продукции, включая принципы ХАССП · ГОСТ Р ИСО 22000-2019","valid":"Действует с 14.08.2026 по 13.08.2029","logo":"iso_22000","pages":2,"w":1406,"h":1988},{"id":"halal","title":"Халяль","sub":"Система добровольной сертификации продукции, услуг и туризма «Халяль»","valid":"Действует с 25.03.2026 по 24.03.2029","logo":"halal_badge","pages":2,"w":1406,"h":1988}];
 
   (() => {
     const dlg = document.getElementById('cert-viewer');
